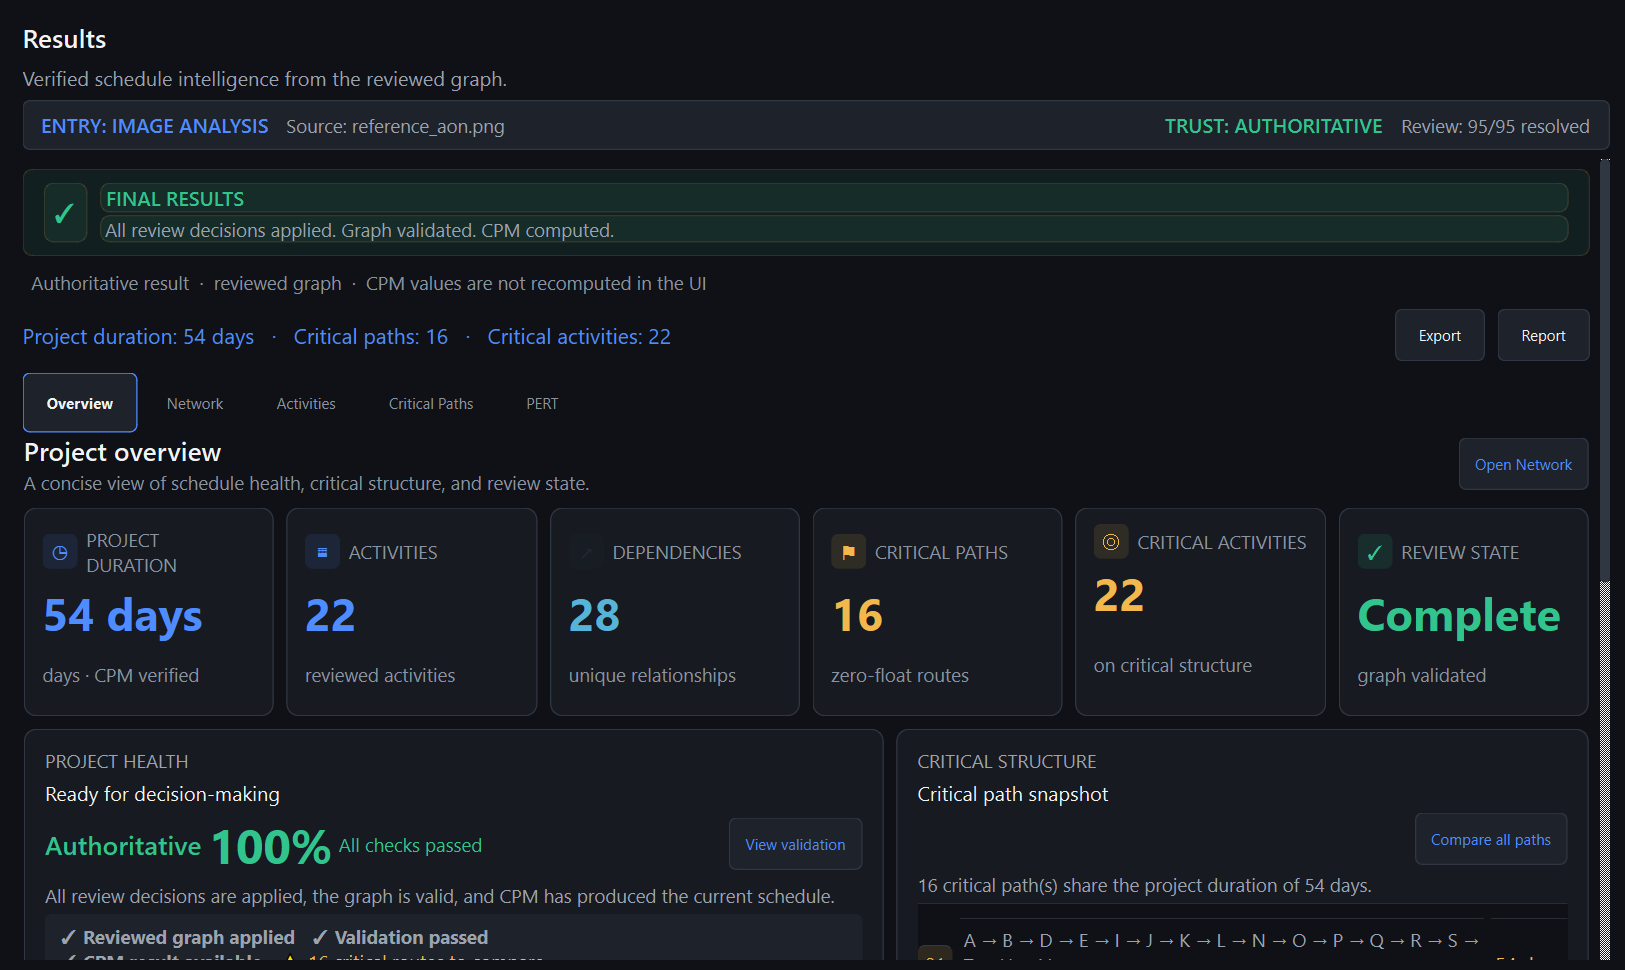
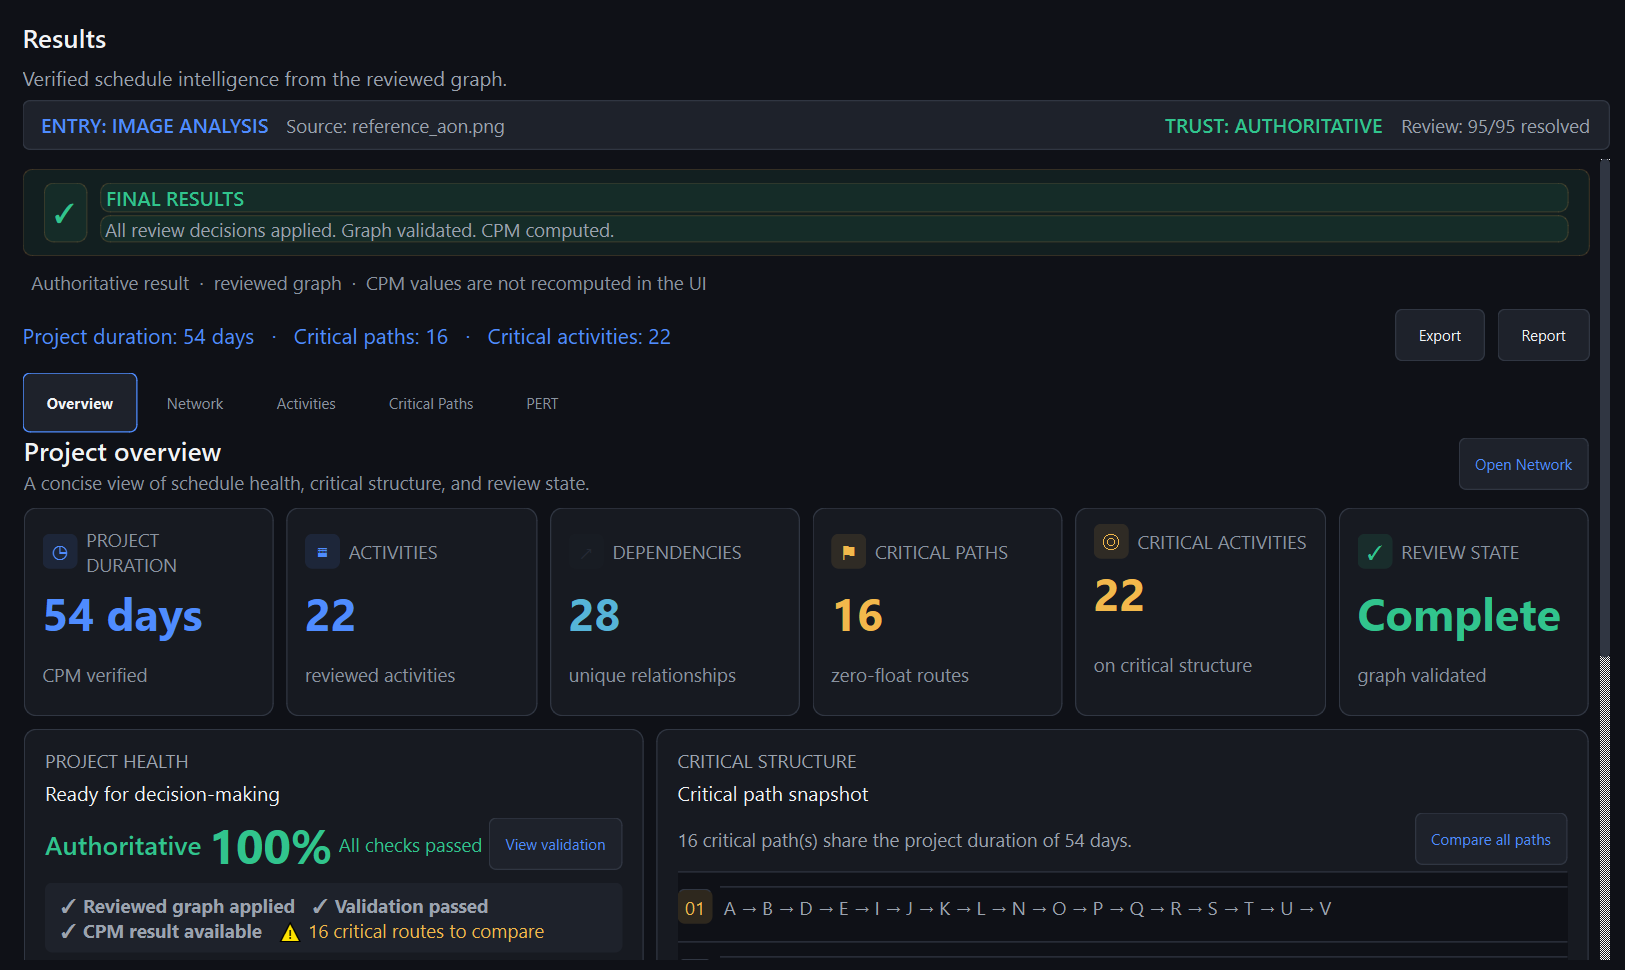
batch 7: Overview medium compression — kill duplication, narrower hint
- duration KPI: '54 days · CPM verified' once instead of 'days · CPM
  verified' + separate '● verified' trend saying the same thing
- Project Health: drop the all-clear prose sentence (it restated the
  banner above); stat row + checks line stay
- Critical structure panel: summary + 'Compare all paths' share one row;
  each route renders as a single route line ('A → S ··· F → V') — the
  per-row '16 activities · zero float · representative route' caption
  and duplicate '54 days' are gone; panel takes 3 of 5 grid columns so
  full-length routes fit one line
- bottom panels (composition / confidence / action): stat and button
  share a single content row each, halving their height
- Overview sizeHint 969 -> 785, dashboard content 1212 -> 1028, shared
  tab stack 1023 -> 839 (every Results tab inherits the smaller stack);
  residual page scroll ~387px at 1500x900
- regenerate captures 05-10: 06 no 'days' dup / no trend dup / compact
  health / single-line routes; 09 Critical Paths detail now on-screen

diff --git a/pert_analyzer/gui/results/overview.py b/pert_analyzer/gui/results/overview.py
@@ -223,8 +223,9 @@ class OverviewTab(QWidget):
         content = QGridLayout()
         content.setHorizontalSpacing(10)
         content.setVerticalSpacing(10)
-        content.addWidget(self._build_health_panel(), 0, 0, 1, 3)
-        content.addWidget(self._build_paths_panel(), 0, 3, 1, 2)
+        # wider snapshot column: full-length routes then wrap to one line
+        content.addWidget(self._build_health_panel(), 0, 0, 1, 2)
+        content.addWidget(self._build_paths_panel(), 0, 2, 1, 3)
         content.addWidget(self._build_composition_panel(), 1, 0, 1, 2)
         content.addWidget(self._build_confidence_panel(), 1, 2, 1, 2)
         content.addWidget(self._build_action_panel(), 1, 4, 1, 1)
@@ -282,13 +283,6 @@ class OverviewTab(QWidget):
         self._health_button.clicked.connect(self.open_validation_requested)
         header.addWidget(self._health_button)
         layout.addLayout(header)
-        self._health_description = QLabel(
-            "All review decisions are applied, the graph is valid, and CPM has produced the current schedule."
-        )
-        self._health_description.setWordWrap(True)
-        self._health_description.setFont(QFont(*MUTED_FONT))
-        self._health_description.setStyleSheet(f"color: {TEXT_SECONDARY};")
-        layout.addWidget(self._health_description)
         self._health_checks = QLabel("")
         self._health_checks.setWordWrap(True)
         self._health_checks.setFont(QFont(*MUTED_FONT))
@@ -303,17 +297,18 @@ class OverviewTab(QWidget):
     def _build_paths_panel(self) -> QFrame:
         panel = _Panel()
         layout = self._panel_heading(panel, "Critical structure", "Critical path snapshot")
-        header = QHBoxLayout()
-        header.addStretch()
-        self._paths_button = self._action_button("Compare all paths")
-        self._paths_button.clicked.connect(self.open_paths_requested)
-        header.addWidget(self._paths_button)
-        layout.addLayout(header)
+        # summary and button share one row; the route list below stays compact
+        summary_row = QHBoxLayout()
+        summary_row.setSpacing(10)
         self._paths_summary = QLabel("No critical paths available.")
         self._paths_summary.setWordWrap(True)
         self._paths_summary.setFont(QFont(*MUTED_FONT))
         self._paths_summary.setStyleSheet(f"color: {TEXT_SECONDARY};")
-        layout.addWidget(self._paths_summary)
+        summary_row.addWidget(self._paths_summary, stretch=1)
+        self._paths_button = self._action_button("Compare all paths")
+        self._paths_button.clicked.connect(self.open_paths_requested)
+        summary_row.addWidget(self._paths_button)
+        layout.addLayout(summary_row)
         self._path_rows = QVBoxLayout()
         self._path_rows.setSpacing(0)
         layout.addLayout(self._path_rows)
@@ -331,6 +326,8 @@ class OverviewTab(QWidget):
     def _build_composition_panel(self) -> QFrame:
         panel = _Panel()
         layout = self._panel_heading(panel, "Network composition", "How the project is shaped")
+        row = QHBoxLayout()
+        row.setSpacing(10)
         self._composition = QLabel("")
         self._composition.setWordWrap(True)
         self._composition.setFont(QFont(*MUTED_FONT))
@@ -338,13 +335,11 @@ class OverviewTab(QWidget):
             f"color: {TEXT_SECONDARY}; background-color: {SURFACE_LIGHT};"
             f" border-radius: {RADIUS_SM}px; padding: 10px;"
         )
-        layout.addWidget(self._composition)
-        button_row = QHBoxLayout()
-        button_row.addStretch()
+        row.addWidget(self._composition, stretch=1)
         button = self._action_button("Open Activities")
         button.clicked.connect(self.open_activities_requested)
-        button_row.addWidget(button)
-        layout.addLayout(button_row)
+        row.addWidget(button)
+        layout.addLayout(row)
         return panel
 
     def _build_confidence_panel(self) -> QFrame:
@@ -353,10 +348,7 @@ class OverviewTab(QWidget):
         self._confidence = QLabel("")
         self._confidence.setWordWrap(True)
         self._confidence.setFont(QFont(*MUTED_FONT))
-        self._confidence.setStyleSheet(
-            f"color: {TEXT_SECONDARY}; background-color: {SURFACE_LIGHT};"
-            f" border-radius: {RADIUS_SM}px; padding: 10px;"
-        )
+        self._confidence.setStyleSheet(f"color: {TEXT_SECONDARY};")
         layout.addWidget(self._confidence)
         self._confidence_bar = QProgressBar()
         self._confidence_bar.setRange(0, 3)
@@ -364,7 +356,7 @@ class OverviewTab(QWidget):
         self._confidence_bar.setTextVisible(False)
         self._confidence_bar.setToolTip("Verified readiness checks")
         layout.addWidget(self._confidence_bar)
-        self._confidence_caption = QLabel("Verified readiness checks: 0 / 3")
+        self._confidence_caption = QLabel("3 / 3 readiness checks passed")
         self._confidence_caption.setFont(QFont(*MUTED_FONT))
         self._confidence_caption.setStyleSheet(f"color: {TEXT_MUTED};")
         layout.addWidget(self._confidence_caption)
@@ -373,6 +365,8 @@ class OverviewTab(QWidget):
     def _build_action_panel(self) -> QFrame:
         panel = _Panel()
         layout = self._panel_heading(panel, "Next useful action", "Explore the schedule")
+        row = QHBoxLayout()
+        row.setSpacing(10)
         self._next_action = QLabel("")
         self._next_action.setWordWrap(True)
         self._next_action.setFont(QFont(*MUTED_FONT))
@@ -380,10 +374,11 @@ class OverviewTab(QWidget):
             f"color: {TEXT_SECONDARY}; background-color: {_rgba(WARNING, 24)};"
             f" border-left: 3px solid {WARNING}; border-radius: {RADIUS_SM}px; padding: 10px;"
         )
-        layout.addWidget(self._next_action)
+        row.addWidget(self._next_action, stretch=1)
         button = self._action_button("Go to Critical Paths")
         button.clicked.connect(self.open_paths_requested)
-        layout.addWidget(button)
+        row.addWidget(button)
+        layout.addLayout(row)
         return panel
 
     def set_data(self, data: Any, session: Any = None) -> None:
@@ -392,8 +387,8 @@ class OverviewTab(QWidget):
         self._session = session
         path_count = data.critical_path_count or 0
         self._kpi_cards["duration"].set_value(format_duration(data.project_duration), ACCENT)
-        self._kpi_cards["duration"].set_note("days · CPM verified")
-        self._kpi_cards["duration"].set_trend("● verified")
+        self._kpi_cards["duration"].set_note("CPM verified")
+        self._kpi_cards["duration"].set_trend("")
         self._kpi_cards["activities"].set_value(str(data.activity_count), ACCENT)
         self._kpi_cards["activities"].set_note("reviewed activities")
         self._kpi_cards["activities"].set_trend("100% reviewed")
@@ -425,21 +420,17 @@ class OverviewTab(QWidget):
         )
         non_critical = max(0, data.activity_count - data.critical_activity_count)
         self._composition.setText(
-            f"<b>{data.activity_count} reviewed activities</b><br>"
-            "<b>unique dependencies</b>&nbsp;&nbsp;&nbsp;"
-            f"<font color='{TEXT}'><b>{data.dependency_count}</b></font><br>"
-            "<b>activities with zero float</b>&nbsp;&nbsp;&nbsp;"
-            f"<font color='{WARNING}'><b>{data.critical_activity_count}</b></font><br>"
-            "<b>non-critical activities</b>&nbsp;&nbsp;&nbsp;"
-            f"<font color='{TEXT}'><b>{non_critical}</b></font>"
+            f"<b>{data.activity_count} reviewed activities</b> · "
+            f"<b>{data.dependency_count}</b> unique dependencies<br>"
+            f"zero-float <font color='{WARNING}'><b>{data.critical_activity_count}</b></font>"
+            f" · non-critical <b>{non_critical}</b>"
         )
         self._confidence.setText(
-            "<b>Calculation source</b>&nbsp;&nbsp; Backend CPM<br>"
-            f"<b>Graph state</b>&nbsp;&nbsp; <font color='{SUCCESS}'>Valid</font><br>"
-            f"<b>Result authority</b>&nbsp;&nbsp; <font color='{SUCCESS}'>Authoritative</font>"
+            "Calculation source <b>Backend CPM</b> · "
+            f"<font color='{SUCCESS}'>Graph valid</font> · Result authoritative"
         )
         self._confidence_bar.setValue(3)
-        self._confidence_caption.setText("Verified readiness checks: 3 / 3 passed")
+        self._confidence_caption.setText("3 / 3 readiness checks passed")
         self._next_action.setText(
             f"There are {path_count} equal-duration critical route(s). "
             "Compare their branches, then inspect any activity in Network."
@@ -480,17 +471,14 @@ class OverviewTab(QWidget):
                 f" border-radius: {RADIUS_SM}px;"
             )
             row_layout.addWidget(rank)
-            info = QLabel(
-                f"{route}\n{len(path)} activities · zero float · representative route"
-            )
-            info.setWordWrap(True)
-            info.setFont(QFont(*MUTED_FONT))
-            info.setStyleSheet(f"color: {TEXT_SECONDARY};")
-            row_layout.addWidget(info, stretch=1)
-            duration = QLabel(format_duration(data.project_duration))
-            duration.setFont(QFont(*STATUS_FONT))
-            duration.setStyleSheet(f"color: {WARNING};")
-            row_layout.addWidget(duration)
+            # single compact line-pair: the full route only.  The per-row
+            # "N activities · zero float" caption was dropped — it repeated
+            # the panel summary for every route.
+            route_label = QLabel(route)
+            route_label.setWordWrap(True)
+            route_label.setFont(QFont(*MUTED_FONT))
+            route_label.setStyleSheet(f"color: {TEXT_SECONDARY};")
+            row_layout.addWidget(route_label, stretch=1)
             self._path_rows.addWidget(row)
 
     def kpi_cards(self) -> dict[str, KpiCard]:
